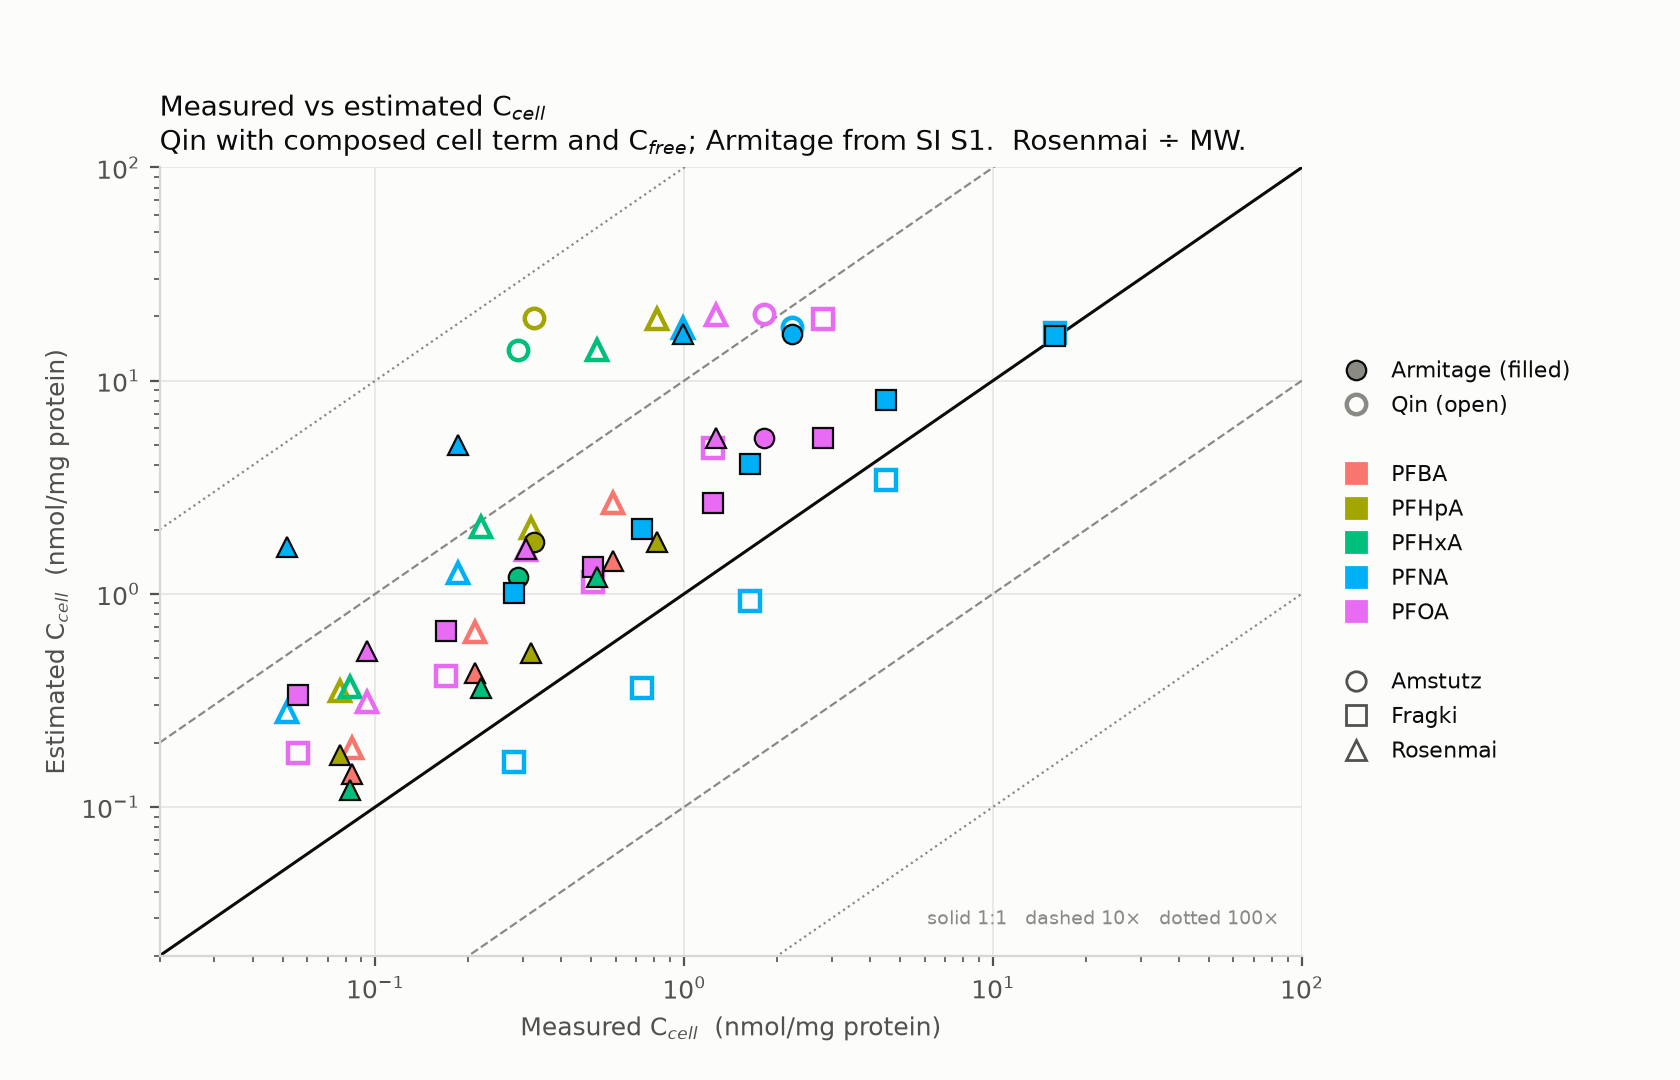
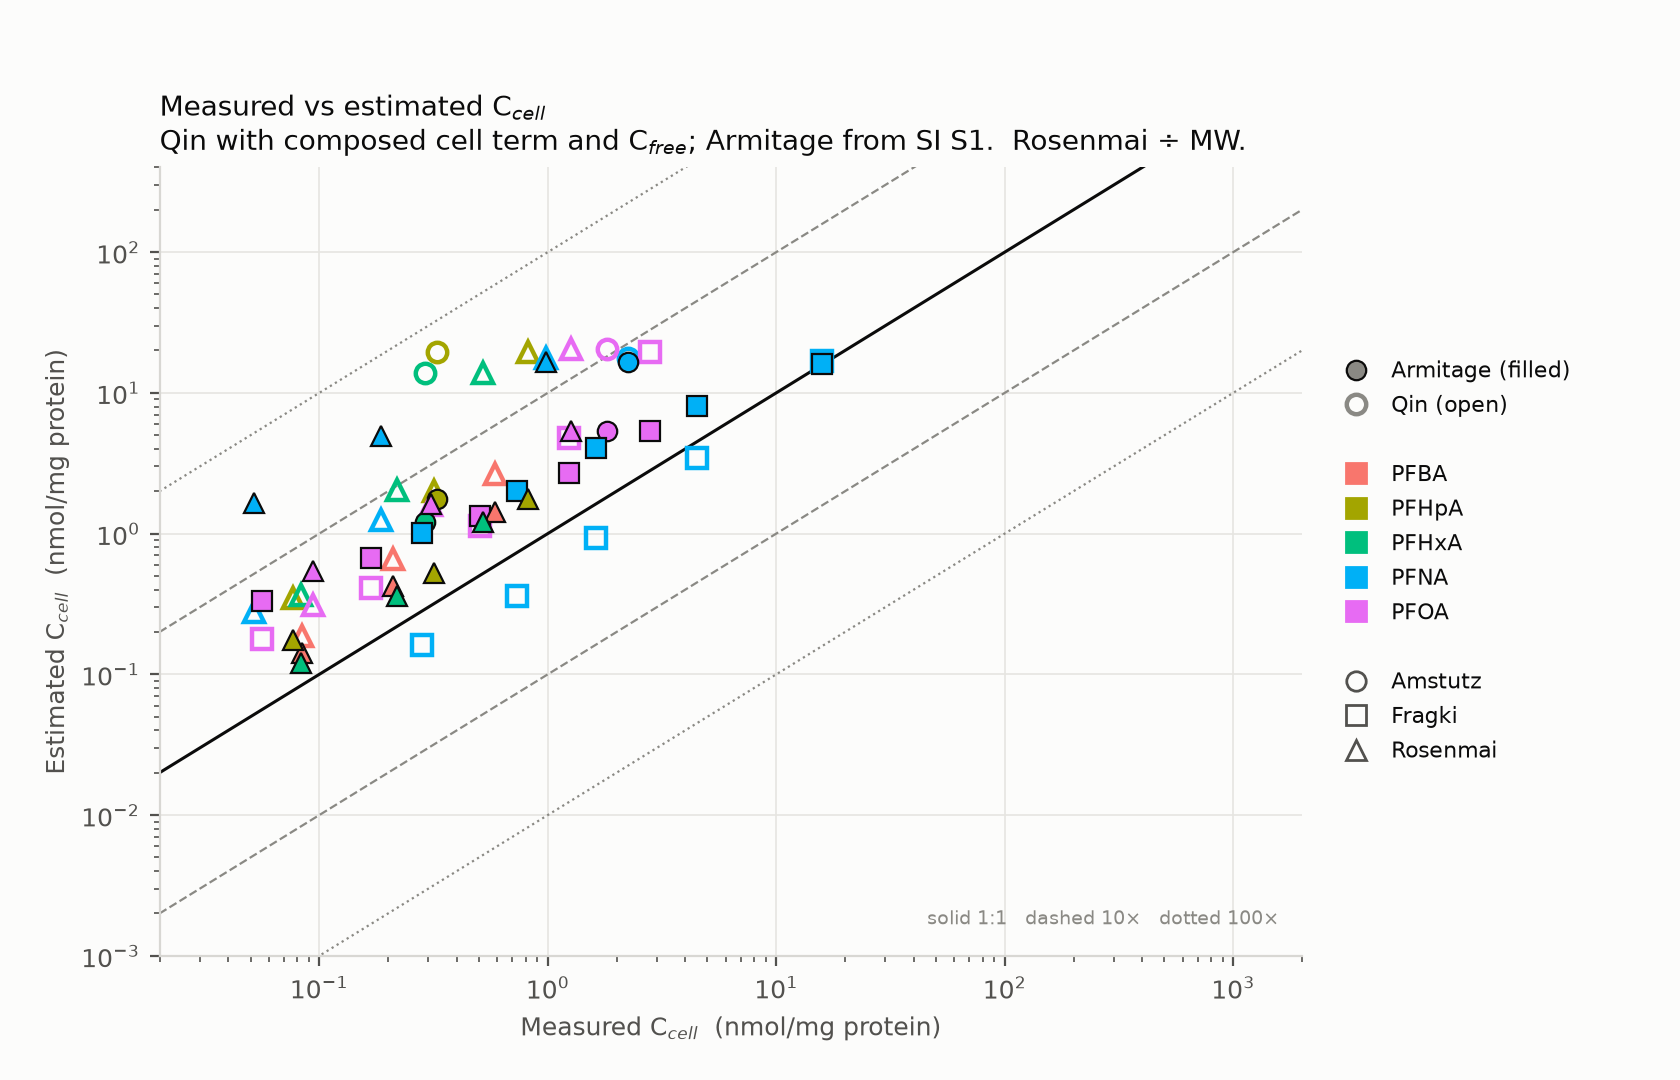
Refute the wash artefact hypothesis and match the plot axes to the project's
Three independent counts against it:

1. Not a between-study variable. All three studies wash five times - Rosenmai
   with ice-cold PBS, Amstutz with DPBS following Rosenmai's protocol, and
   Fragki's main paper states "Cells were washed 5 times with Dulbecco's
   Phosphate Buffered Saline". A shared protocol cannot explain differences
   between them.

2. Direction is backwards. Washing should strip the shortest, fastest-
   desorbing chains hardest, so models should over-predict short chains most.
   Armitage's over-prediction instead rises monotonically with chain length,
   +0.091 decades per CF2, r = +0.83 (1.42x at PFBA to 3.86x at PFNA).

3. Magnitude is two orders out. Fragki's time course puts steady state at ~1 h,
   so cell-medium exchange has a ~10-30 min half-time; five quick rinses give
   1-2 min of contact, i.e. 2-13% loss. A 3-5x loss would need 15-45 minutes
   of washing.

The Amstutz-vs-Rosenmai short-chain gap it was invoked to explain is better
attributed to analytical recovery: Rosenmai's Table S2 reports internal-
standard recoveries of 78-98% varying by compound.

Figure 11 axis limits now match the project's own plot (x 2e-2 to 2e3,
y 1e-3 to 4e2) for direct comparison.

Claude-Session: https://claude.ai/code/session_01KWGaE5eHaWPnoHpTeKGRB5

diff --git a/tk_review/scripts/fix_sheet_qin_column.py b/tk_review/scripts/fix_sheet_qin_column.py
@@ -153,7 +153,9 @@ def plot(rows):
         "xtick.color": INK2, "ytick.color": INK2,
         "axes.spines.top": False, "axes.spines.right": False})
     fig, ax = plt.subplots(figsize=(8.4, 5.4))
-    lo, hi = 2e-2, 1e2
+    # axis limits match the project's original plot, for direct comparison
+    XLO, XHI, YLO, YHI = 2e-2, 2e3, 1e-3, 4e2
+    lo, hi = 1e-4, 1e4
     ax.plot([lo, hi], [lo, hi], "-", color=INK, lw=1.1, zorder=2)
     for f, ls in ((10, "--"), (0.1, "--"), (100, ":"), (0.01, ":")):
         ax.plot([lo, hi], [lo * f, hi * f], ls, color=MUTED, lw=0.8, zorder=1)
@@ -165,7 +167,7 @@ def plot(rows):
         ax.plot(x, r["Qin_FIXED"], mk, ms=7, mfc="none", mec=col,
                 mew=1.6, zorder=3)                       # open    = Qin
     ax.set_xscale("log"); ax.set_yscale("log")
-    ax.set_xlim(lo, hi); ax.set_ylim(lo, hi)
+    ax.set_xlim(XLO, XHI); ax.set_ylim(YLO, YHI)
     ax.set_xlabel("Measured C$_{cell}$  (nmol/mg protein)")
     ax.set_ylabel("Estimated C$_{cell}$  (nmol/mg protein)")
     ax.set_title("Measured vs estimated C$_{cell}$\n"

diff --git a/tk_review/report/MBM_Qin_vs_Armitage.md b/tk_review/report/MBM_Qin_vs_Armitage.md
@@ -263,3 +263,48 @@ by **141–215×**, and would put 15–64% of the dose inside 0.18% of the well
 volume. The ng/mg reading sits within 1.4–2.1× of the uptake table, the
 residual being the unstated working volume (§6b implies ~0.7 mL/well against
 the 1 mL assumed).
+
+## 11. The wash artefact hypothesis: refuted on three counts
+
+Earlier sections floated five ice-cold PBS/DPBS washes as a chain-length-
+dependent loss that would bias measured C_cell low. It does not survive.
+
+**(a) It is not a between-study variable.** All three studies wash five times:
+Rosenmai "washed 5 times with ice-cold phosphate-buffered saline", Amstutz
+"washed... with DPBS" following Rosenmai's protocol, and Fragki "Cells were
+washed 5 times with Dulbecco's Phosphate Buffered Saline". A shared protocol
+cannot explain differences between them.
+
+**(b) The direction is backwards.** Washing should strip the shortest, least
+bound, fastest-desorbing chains hardest, so the models should over-predict
+*short* chains most. They do the opposite — Armitage's over-prediction rises
+monotonically with chain length:
+
+| | nCF | Armitage/measured | Qin/measured |
+|---|---|---|---|
+| PFBA | 3 | 1.42× | 2.36× |
+| PFHxA | 5 | 1.20× | 8.78× |
+| PFHpA | 6 | 1.55× | 9.03× |
+| PFOA | 7 | 2.68× | 3.80× |
+| PFNA | 8 | 3.86× | 1.51× |
+
+Armitage: **+0.091 decades per CF2, r = +0.83**. Qin shows no trend
+(−0.035, r = −0.20).
+
+**(c) The magnitude is two orders out.** Fragki's time course puts steady state
+at ~1 h, so the cell↔medium exchange half-time is ~10–30 min. Five quick rinses
+give 1–2 min of contact:
+
+| exchange t½ | 1 min contact | 2 min | 5 min |
+|---|---|---|---|
+| 10 min | 6.7% lost | 12.9% | 29.3% |
+| 20 min | 3.4% | 6.7% | 15.9% |
+| 30 min | 2.3% | 4.5% | 10.9% |
+
+A 3–5× loss needs 1.5–2.3 exchange half-lives of contact — 15–45 minutes of
+washing. The hypothesis is dead at the order-of-magnitude level.
+
+The one thing it was invoked to explain, Amstutz reading 3.6–4.8× below
+Rosenmai for PFHxA and PFHpA while agreeing to 1.0–1.4× for PFOA and PFNA, is
+better explained by short-chain analytical recovery: Rosenmai's own Table S2
+reports internal-standard recoveries of 78–98% that vary by compound.
